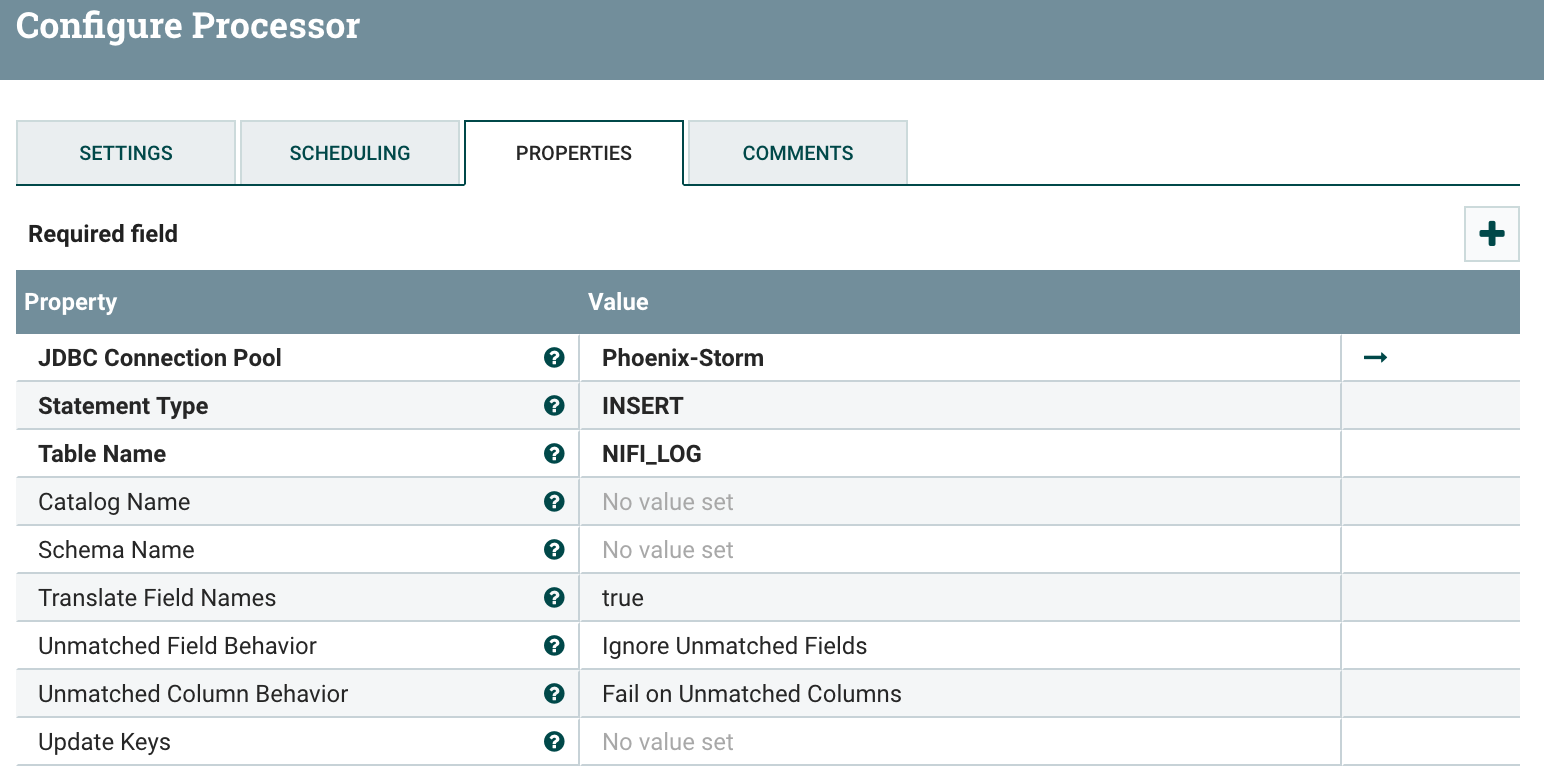
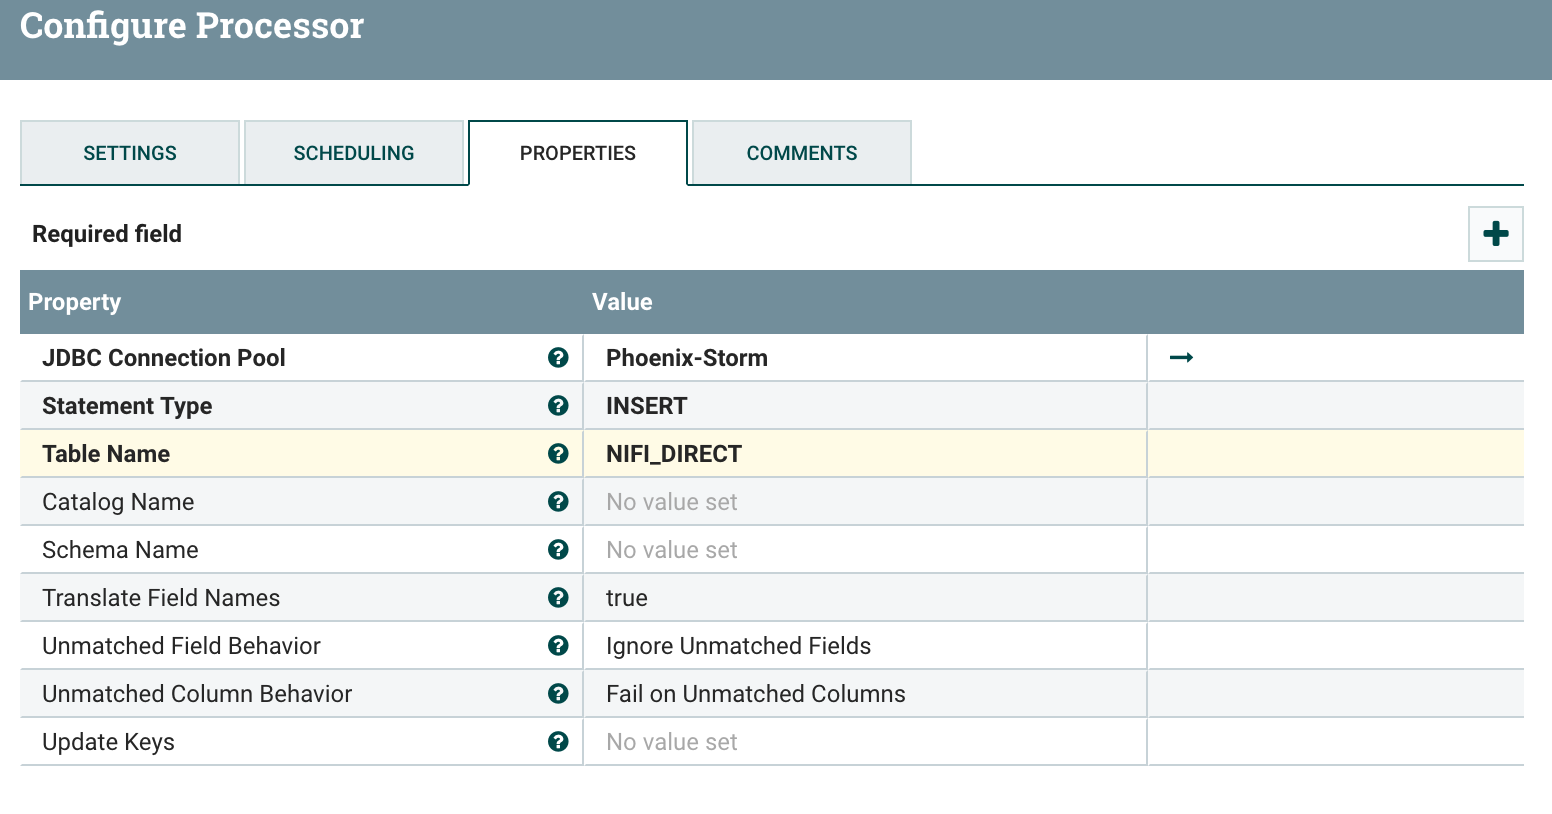
Image Update
Image Update

diff --git a/README.md b/README.md
@@ -57,10 +57,12 @@ For Storm, we will use this same mechanism - we will use the Site-to-Site protoc
 # /usr/hdp/current/phoenix-client/bin/sqlline.py sandbox.hortonworks.com:2181:/hbase-unsecure
 ```
 
-4) Execute below in the Phoenix shell:
+4) Execute below in the Phoenix shell to create tables in Hbase:
 
 ```
 CREATE TABLE NIFI_LOG( UUID VARCHAR NOT NULL, EVENT_DATE DATE, BULLETIN_LEVEL VARCHAR, EVENT_TYPE VARCHAR, CONTENT VARCHAR CONSTRAINT pk PRIMARY KEY(UUID));
+CREATE TABLE NIFI_DIRECT( UUID VARCHAR NOT NULL, EVENT_DATE VARCHAR, BULLETIN_LEVEL VARCHAR, EVENT_TYPE VARCHAR, CONTENT VARCHAR CONSTRAINT pk PRIMARY KEY(UUID));
+
 ```
 	
 ## Configuring and Starting NiFi
@@ -218,7 +220,7 @@ Database Driver Location(s) : /usr/hdp/current/phoenix-client/phoenix-client.jar
 ![alt tag](https://github.com/jobinthompu/NiFi-Storm-Log-Ingestion/blob/master/resources/images/ConvertJSONToSQL.jpg)
 
 6) 
-### This completes the tutorial,  You have successfully:
+#### This completes the tutorial,  You have successfully:
 
 * Installed and Configured HDF 2.0 on your HDP-2.5 Sandbox.
 * Created a Data flow to pull logs and then to Parse it and mave it available on a Site-to-site enabled NiFi port.
